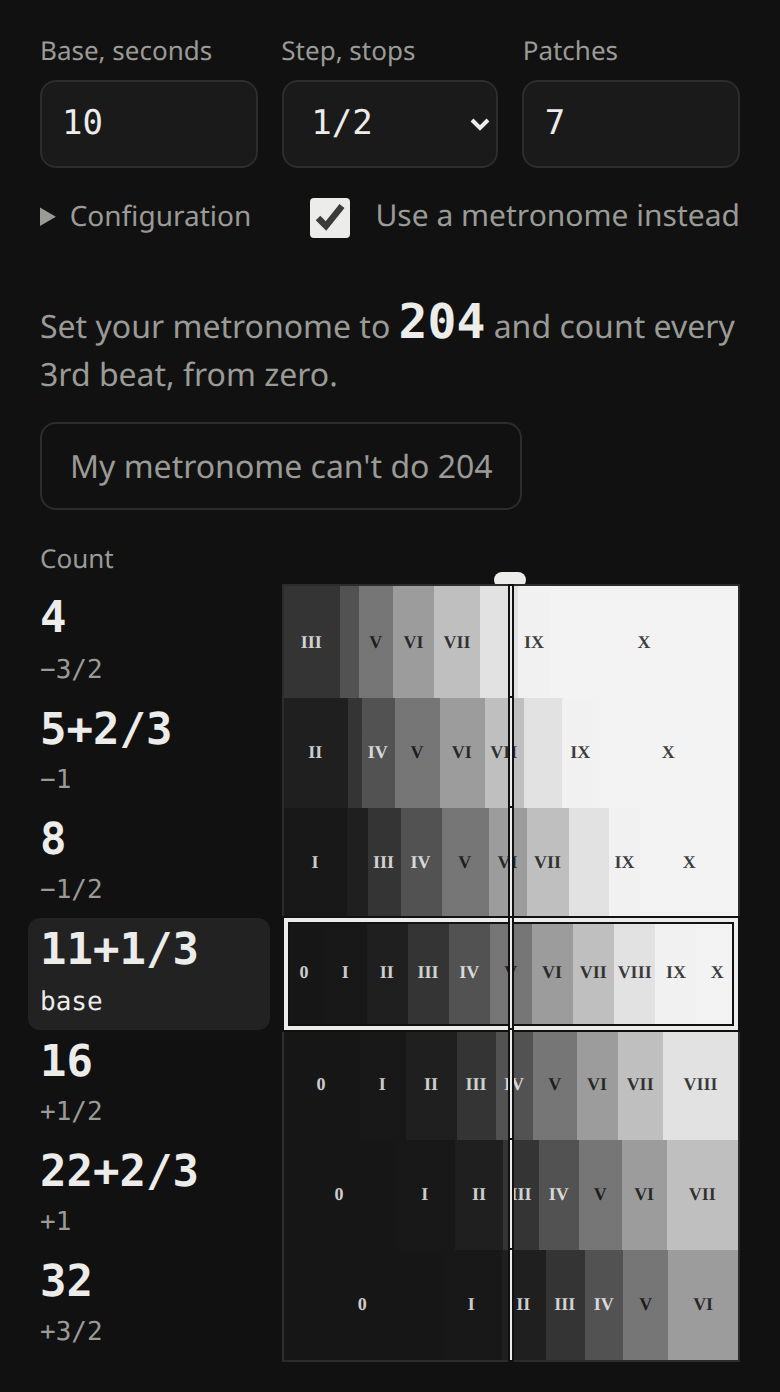
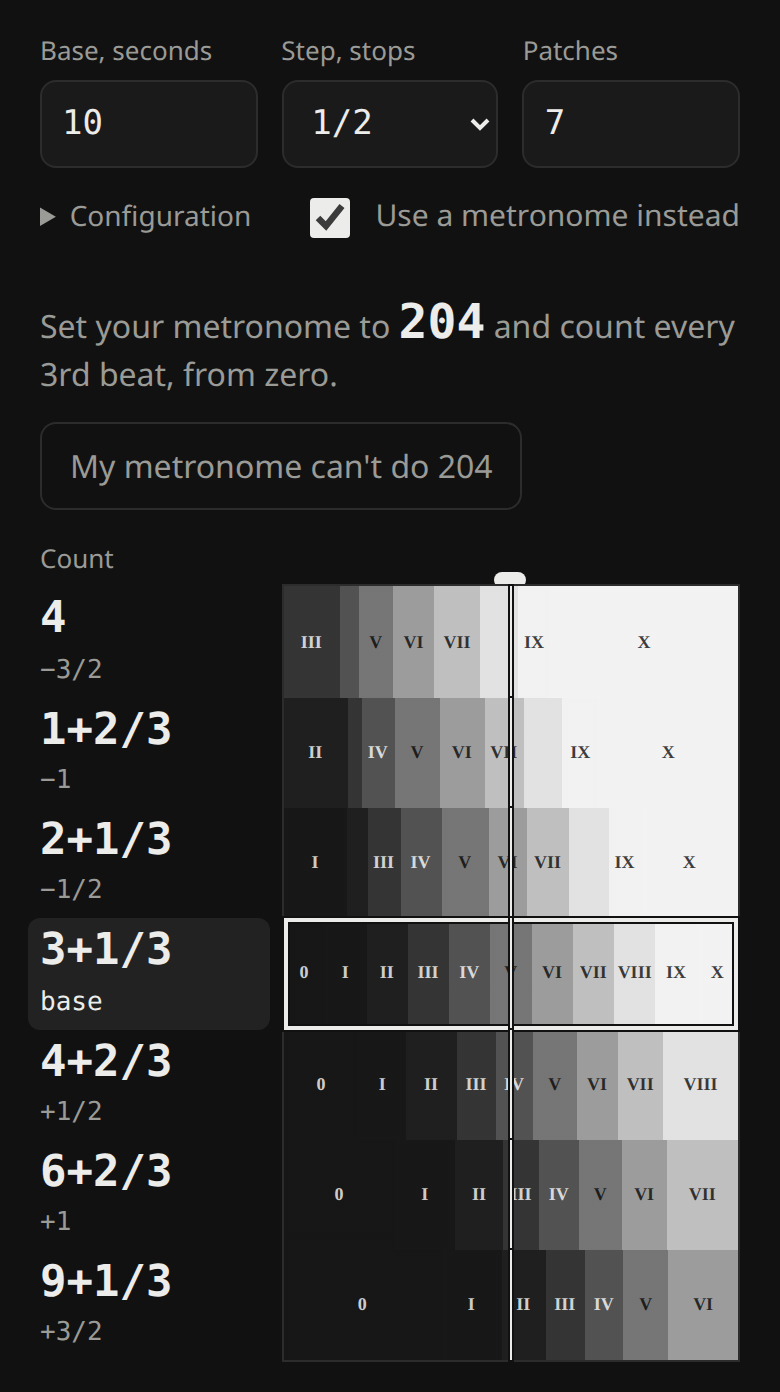
README and figures for additions first

diff --git a/README.md b/README.md
@@ -18,7 +18,7 @@ A tool for planning f/stop test strips in the darkroom, and for timing them: by 
 Every patch has a strip of tones beside its figure. Each strip shows what that patch prints as, in the zones of the Zone System, and the strips abut, so a tone in the picture can be followed straight up and down the map from patch to patch. Each paper has its own curves, and the filter changes how far apart the patches land, so both are chosen under the map. A second filter can be laid under the first, to see whether a change of contrast would do what more exposure would not. This is for the age-old question, *"should I change the exposure, or is it the contrast?"*
 
 ## Quickstart
-Open https://binflush.github.io/striptest/, type in your base time, and pick the step size and the number of patches. The map gives the seconds for every patch. Press **Run in Darkroom Mode** at the foot of the screen, then **Start**, and the page counts you in and sounds each patch. Tick **Use a metronome instead** and it gives you a tempo and the counts instead. The section **The website** below goes through the rest.
+Open https://binflush.github.io/striptest/, type in your base time, and pick the step size and the number of patches. The map gives the seconds for every patch: what each adds to the one before, the way a strip is covered. Press **Run in Darkroom Mode** at the foot of the screen, then **Start**, and the page counts you in and sounds each patch. Tick **Use a metronome instead** and it gives you a tempo and the counts instead. The section **The website** below goes through the rest.
 
 ## The website
 The website lives at https://binflush.github.io/striptest/. It does the same job as the Python script this started as, and a good deal more, and it does it in your browser, so it also works on the phone in your pocket. Everything is calculated on your own device, and nothing is sent anywhere.
@@ -28,11 +28,11 @@ The easiest way to explain it is to go through a printing session.
 ### The plan
 Let's say we have a fresh negative in the enlarger and our best guess is that it needs somewhere around 10 seconds. We want a test strip of 7 patches in 1/2 stop steps around that guess. So we type 10 into **Base, seconds**, choose 1/2 under **Step, stops** and 7 under **Patches**. These happen to be the defaults, so in this case we just open the page:
 
-<p align="center"><img src="figures/web-plan.png" width="300" align="top" alt="The page as it opens: base 10 seconds, 1/2 stop steps, 7 patches, and the map underneath with the seconds for every patch"> <img src="figures/web-base.png" width="300" align="top" alt="The sixth patch tapped: the tile and the box have moved to it, and the other patches are drawn against it"></p>
+<p align="center"><img src="figures/web-plan.png" width="300" align="top" alt="The page as it opens: base 10 seconds, 1/2 stop steps, 7 patches, and the map underneath with the seconds every patch adds"> <img src="figures/web-base.png" width="300" align="top" alt="The sixth patch tapped: the tile and the box have moved to it, and the other patches are drawn against it"></p>
 
-The map has one row for each patch. On the left, large, are the seconds the patch ends up with, and under them where it sits in stops: 3.5 seconds a stop and a half below the base, 5.0 a stop below, and so on up to 28.3 a stop and a half above. The base is the patch we believe in, marked with a tile round its figure and a box round its strip. It starts on the middle patch, so the others bracket it; tapping any patch, its figure or its strip, makes that one the base instead, and the others are drawn against it. On the first patch the strip only goes up from there.
+The map has one row for each patch. On the left, large, are the seconds each patch adds to the one before — 3.5 for the first, then 1.5, 2.1, 2.9 and so on — the way a strip is exposed with a card: give the whole strip 3.5 seconds, cover the first patch, give the rest 1.5 more, cover the next, and so on. Under them is where the patch sits in stops, from a stop and a half below the base to a stop and a half above. The base is the patch we believe in, marked with a tile round its figure and a box round its strip. It starts on the middle patch, so the others bracket it; tapping any patch, its figure or its strip, makes that one the base instead, and the others are drawn against it. On the first patch the strip only goes up from there.
 
-With a timer these figures are all there is to it: give the whole strip 3.5 seconds, cover the first patch, and cover the next at 5.0, 7.1, 10.0 and so on. To expose every patch on its own instead, give each its own seconds. Those who would rather see what each patch *adds* to the one before choose **Additions** under **Exposures** in Configuration, and the figures become 3.5, 1.5, 2.1, 2.9 and so on, with the heading over them saying so. The choice is also what a run in the darkroom gives each patch; more on that below.
+Those who expose every patch on its own instead, in a holder with a window, choose **Totals** under **Exposures** in Configuration, and each figure becomes what the patch has had in all: 3.5, 5.0, 7.1, 10.0 and so on up to 28.3, with the heading over them saying Seconds. That is also how a strip is read afterwards: the patch that looks right is printed at its total. With a timer, either figure is all there is to it. The choice is also what a run in the darkroom gives each patch; more on that below.
 
 ### Reading the map
 The strips are a rough simulation of what the patches are going to look like, in the zones of the Zone System: 0 is full black, V is middle grey and X is paper white. The base patch's strip is simply the scale from 0 to X, and every other strip is that same scale after the patch's exposure. A place across the map is one part of the picture. So we pick a tone in the base row, say a highlight in Zone VIII, and look straight up and down: the zone we find at that same place in another row is what that highlight prints as in that patch. Here it is a IX one patch lighter and paper white beyond that; one patch darker it is a VII, then a VI, and a V on the last patch.
@@ -50,7 +50,7 @@ At filter 00 it takes about a stop to move a tone by one zone, so neighbouring p
 How seriously should the strips be taken? Not very. The tones come from the characteristic curves in Ilford's data sheets for the papers offered — the current Multigrade RC Deluxe, the cotton-rag Multigrade Art 300, the fibre-based Multigrade FB Classic, and the Multigrade IV RC Deluxe that the first of them replaced — developed the way Ilford developed them. Art 300 is the odd one: being matte, its blackest black is 1.4 against a glossy paper's 2.08, and the strips show that, with the dark zones far closer together. Only Zone V is a fixed tone, 18% grey. Zone 0 and Zone X are simply the blackest and the whitest the paper gets, and the zones in between are placed where a normally developed negative would put them at filter 2 on Multigrade IV. Your paper, your developer and above all your negative are different. The strips are there to build intuition; they do not replace the actual test strip.
 
 ### Reading the test strip
-The strip is developed and dry, and the fourth patch, 10 seconds, looks about right, but the shadows do not: the darkest part of the picture that should still show some detail, which we would like to see in Zone II, has only made it to a III. More exposure would darken it, but as we just saw, that drags the highlights down with it. This is a job for a harder filter, and we can try one on the page before we expose for it. Under the filter slider we open **Compare with another filter** and set it to 3:
+The strip is developed and dry, and the fourth patch, the base's 10 seconds, looks about right, but the shadows do not: the darkest part of the picture that should still show some detail, which we would like to see in Zone II, has only made it to a III. More exposure would darken it, but as we just saw, that drags the highlights down with it. This is a job for a harder filter, and we can try one on the page before we expose for it. Under the filter slider we open **Compare with another filter** and set it to 3:
 
 <p align="center"><img src="figures/web-compare.png" width="300" align="top" alt="Filter 2 compared with filter 3: every row has a second strip under its first, where the zones lie closer together"> <img src="figures/web-compare-slide.png" width="300" align="top" alt="Sliding along the base row over a shadow in Zone III: through filter 3 the same patch prints it as Zone II"></p>
 
@@ -59,16 +59,16 @@ Every row now has a second strip under its first. It is the same patch, exposed 
 The two filters are lined up by the paper speeds in Ilford's data sheets. Multigrade filters are speed matched: 00 to 3 need the same exposure, and 4 and 5 need more — a whole stop on Multigrade IV and on Art 300, about an eighth of one on FB Classic and the current RC Deluxe, if the sheets are to be believed. With other filters, a colour head, or filters that have faded over the years this is going to be off, so the same goes as before: the strips are there to build intuition.
 
 ### Configuration
-Under the fields, **Configuration** holds what belongs to the way of timing chosen. For sound cues that is the **count-in**, the seconds the page waits before the lamp goes on: three is the least, because it counts three in, and a longer one simply waits before counting them — make it as long as you need to get a hand to the switch. **Exposures** is the choice above between totals and additions: it says what the map shows and what a run gives each patch. **Stop between exposures** is described in the next section. On a wide screen Configuration stands open, in a rail beside the map.
+Under the fields, **Configuration** holds what belongs to the way of timing chosen. For sound cues that is the **count-in**, the seconds the page waits before the lamp goes on: three is the least, because it counts three in, and a longer one simply waits before counting them — make it as long as you need to get a hand to the switch. **Exposures** is the choice above between additions and totals: it says what the map shows and what a run gives each patch. **Stop between exposures** is described in the next section. On a wide screen Configuration stands open, in a rail beside the map.
 
-<p align="center"><img src="figures/web-configuration.png" width="300" align="top" alt="Configuration open: the count-in, Exposures as Totals or Additions, and Stop between exposures"> <img src="figures/web-additions.png" width="300" align="top" alt="With Additions chosen the figures are what each patch adds: 3.5, then 1.5, 2.1, 2.9 and so on"></p>
+<p align="center"><img src="figures/web-configuration.png" width="300" align="top" alt="Configuration open: the count-in, Exposures as Additions or Totals, and Stop between exposures"> <img src="figures/web-totals.png" width="300" align="top" alt="With Totals chosen the figures are what each patch has had in all: 3.5, 5.0, 7.1, 10.0 and so on"></p>
 
 ### At the enlarger
 Everything so far happens with the lights on. When they go out the phone is the wrong shape entirely: a white page is a fog risk, the browser's bars are in the way, and the screen turns itself off halfway through a strip. The button at the foot of the screen, **Run in Darkroom Mode**, deals with all three. It fills the screen with the plan in large red type on black, asks the phone to stay awake, and shows nothing that can be set. **Close**, or Escape, brings the page back.
 
 <p align="center"><img src="figures/web-darkroom.png" width="300" align="top" alt="The darkroom view: the plan in red on black, a bar for every wait, and Start, Start dark and Close"> <img src="figures/web-resume.png" width="300" align="top" alt="Part way through a strip run one patch at a time: the first patch done and its bar full, Patch 2 next, and Resume, Reset and Resume dark"></p>
 
-The plan in the view is the map's figures with a bar beside each, as long as that patch's exposure, with one more above them all for the count-in, all to one scale, so that before anything is started the plan is already a picture of how long the strip takes. **Start** runs it, and a run gives every patch exactly the figure beside it, in turn. With **Totals** that is each patch's whole exposure, one after the other, for a strip moved along in a holder at each mark: 3.5 seconds, then 5.0, then 7.1. With **Additions** it is what each patch adds, for a strip covered as it goes: 3.5, then 1.5, then 2.1, the lamp staying on and the next patch covered at each mark. The count-in counts three soft beats, one a second, the last of them a second before the lamp. On the lamp a drone comes in and holds for as long as the exposure runs. Over it a tone climbs, and lands an octave higher exactly on each moment you have to act on, where a short beat falls, louder and an octave above the ones that counted you in: one for each patch, and the last is the lamp off. Then silence, which is how you know it is over. Because the pitch is always climbing towards the next one, a moment never arrives unannounced, and it arrives just as decisively whether the gap was one second or ten. As the run goes, the bar of the wait it is on fills, meeting its end as the beat is heard, and the line about the run and the Stop button fall back, so that the figures stay the brightest thing on the screen.
+The plan in the view is the map's figures with a bar beside each, as long as that patch's exposure, with one more above them all for the count-in, all to one scale, so that before anything is started the plan is already a picture of how long the strip takes. **Start** runs it, and a run gives every patch exactly the figure beside it, in turn. With **Additions** that is what each patch adds, for a strip covered as it goes: 3.5 seconds, then 1.5, then 2.1, the lamp staying on and the next patch covered at each mark. With **Totals** it is each patch's whole exposure, one after the other, for a strip moved along in a holder at each mark: 3.5, then 5.0, then 7.1. The count-in counts three soft beats, one a second, the last of them a second before the lamp. On the lamp a drone comes in and holds for as long as the exposure runs. Over it a tone climbs, and lands an octave higher exactly on each moment you have to act on, where a short beat falls, louder and an octave above the ones that counted you in: one for each patch, and the last is the lamp off. Then silence, which is how you know it is over. Because the pitch is always climbing towards the next one, a moment never arrives unannounced, and it arrives just as decisively whether the gap was one second or ten. As the run goes, the bar of the wait it is on fills, meeting its end as the beat is heard, and the line about the run and the Stop button fall back, so that the figures stay the brightest thing on the screen.
 
 **Start dark** gives the screen up altogether: by ear you need not look at all, and a screen is only a light source. It stays black after the run has finished as well, which is deliberate — a strip ending is the worst possible moment to light the room, with the paper still out. The whole of that black screen is then the one control. A tap starts a run and stops one that is going, and a hold of about three quarters of a second gives the screen back and ends the run with it; it reddens very faintly while you hold, so you can tell the hold has taken. Started the lit way, a press on the button stops the run at once. If the phone rings, or anything else takes the page away mid-run, the sound stops and the view says so: that strip is spoiled, and better to know it.
 
@@ -81,9 +81,9 @@ Tick **Use a metronome instead**, and the page says what to set the metronome to
 
 <p align="center"><img src="figures/web-metronome.png" width="300" align="top" alt="The metronome: set it to 204 and count every 3rd beat, from zero; the map now gives the counts"> <img src="figures/web-skipping.png" width="300" align="top" alt="204 has been skipped, and the page suggests 203 instead, still counting every 3rd beat"></p>
 
-We set the metronome to 204 and count every 3rd beat. The figures are now counts: we start the exposure on the count of zero, cover the first patch on the count of 4, the next on 5+2/3, then on 8, 11+1/3 and so on. A count of 5+2/3 means the second beat after the fifth counted one. Every patch is a whole number of beats, so it always begins on a counted beat, though it may end on one between. The counts are chosen to land as close to the f/stop times as a tempo allows — here no patch is more than 0.5% of half a stop off, which is quite a bit better than counting half seconds gave us in the **Background** section — and when a patch is more than a tenth of a step off, the page says so in red beside its stops.
+We set the metronome to 204 and count every 3rd beat. The figures are now counts, and each patch is counted from zero: we start the exposure on the count of zero, cover the first patch on the count of 4, start again from zero and cover the next on 1+2/3, then on 2+1/3, on 3+1/3 and so on. A count of 1+2/3 means the second beat after the first counted one. Every patch is a whole number of beats, so a count always starts on a counted beat, though it may end on one between. The counts are chosen to land as close to the f/stop times as a tempo allows — here no patch is more than 0.5% of half a stop off, which is quite a bit better than counting half seconds gave us in the **Background** section — and when a patch is more than a tenth of a step off, the page says so in red beside its stops.
 
-Most metronomes can't do 204. Many have gaps between their tempos, especially the fast ones. So we press **My metronome can't do 204**, and get the next best tempo instead: 203, which a digital metronome has. My old mechanical one has neither, nor the 169, 205 and 119 that come after, but the fifth press lands on 168, which is on its dial, counting every 2nd beat: 5, 7, 10, 14 and so on, none of them more than 2.9% of a step off. The tempos we have skipped are remembered on the device, so after a few sessions the page knows the metronome and goes straight to what it has. A tempo skipped by mistake is brought back by pressing it in the **Skipping** list, and **Forget all skipped tempos** under Configuration starts over. Configuration also holds the metronome's range, **Slowest** and **Fastest**, and **Count every**, which is normally chosen for you so that the counting pace stays near one a second. Choose **Additions** under **Exposures** and the counts start again from zero at every patch, which many find easier to count.
+Most metronomes can't do 204. Many have gaps between their tempos, especially the fast ones. So we press **My metronome can't do 204**, and get the next best tempo instead: 203, which a digital metronome has. My old mechanical one has neither, nor the 169, 205 and 119 that come after, but the fifth press lands on 168, which is on its dial, counting every 2nd beat: 5, then 2, 3, 4 and so on, none of them more than 2.9% of a step off. The tempos we have skipped are remembered on the device, so after a few sessions the page knows the metronome and goes straight to what it has. A tempo skipped by mistake is brought back by pressing it in the **Skipping** list, and **Forget all skipped tempos** under Configuration starts over. Configuration also holds the metronome's range, **Slowest** and **Fastest**, and **Count every**, which is normally chosen for you so that the counting pace stays near one a second. Choose **Totals** under **Exposures** and one count runs on from the start of the strip instead: 4, 5+2/3, 8, 11+1/3 and so on.
 
 The page can run the metronome too. Press **Run in Darkroom Mode**, then **Start**, and it keeps that tempo for as long as you let it, striking the beat you count an octave above the rest. **Start dark** does the same with the screen black. It is a plain metronome, nothing more: the counting is still yours, and a hardware one does just as well.
 
@@ -139,7 +139,7 @@ Count every 3rd beat
     22+2/3         +1     20.000       20.000       0.0%
     32           +3/2     28.235       28.284      -0.5%
 ```
-Set the metronome to 204, let it accent every third beat if it can, and start counting from zero as the exposure starts: the whole strip gets 4 counts (12 beats), then the first patch is covered and the rest get up to 5+2/3, and so on.
+Set the metronome to 204, let it accent every third beat if it can, and start counting from zero as the exposure starts: the whole strip gets 4 counts (12 beats), then the first patch is covered and the rest get up to 5+2/3, and so on. The script keeps one count running unless `-c` is given, which starts the count again at every patch, as the page does by default.
 
 ### Usage
 - `-b`, `--base`: Base exposure time in seconds (float). Default is `10`.
